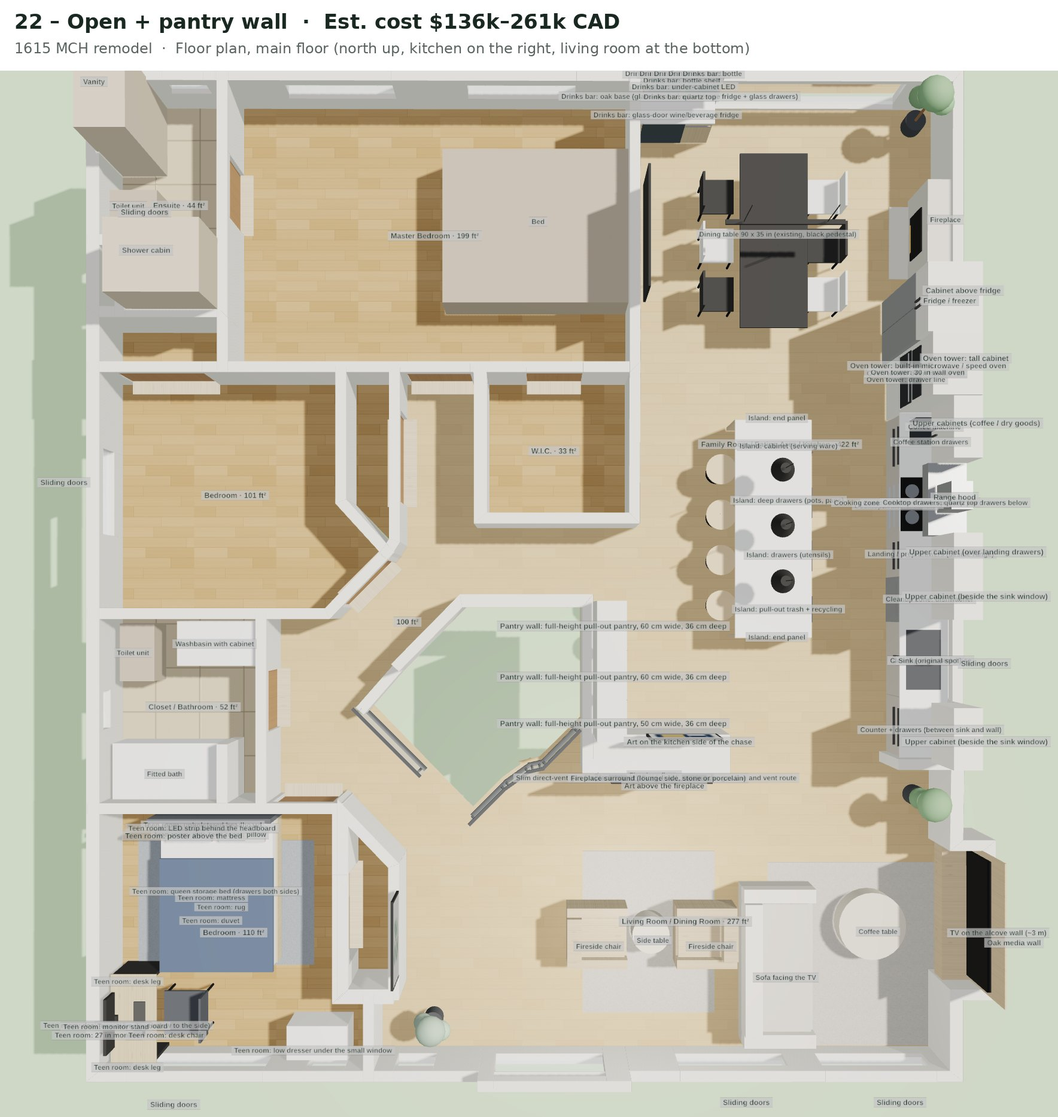
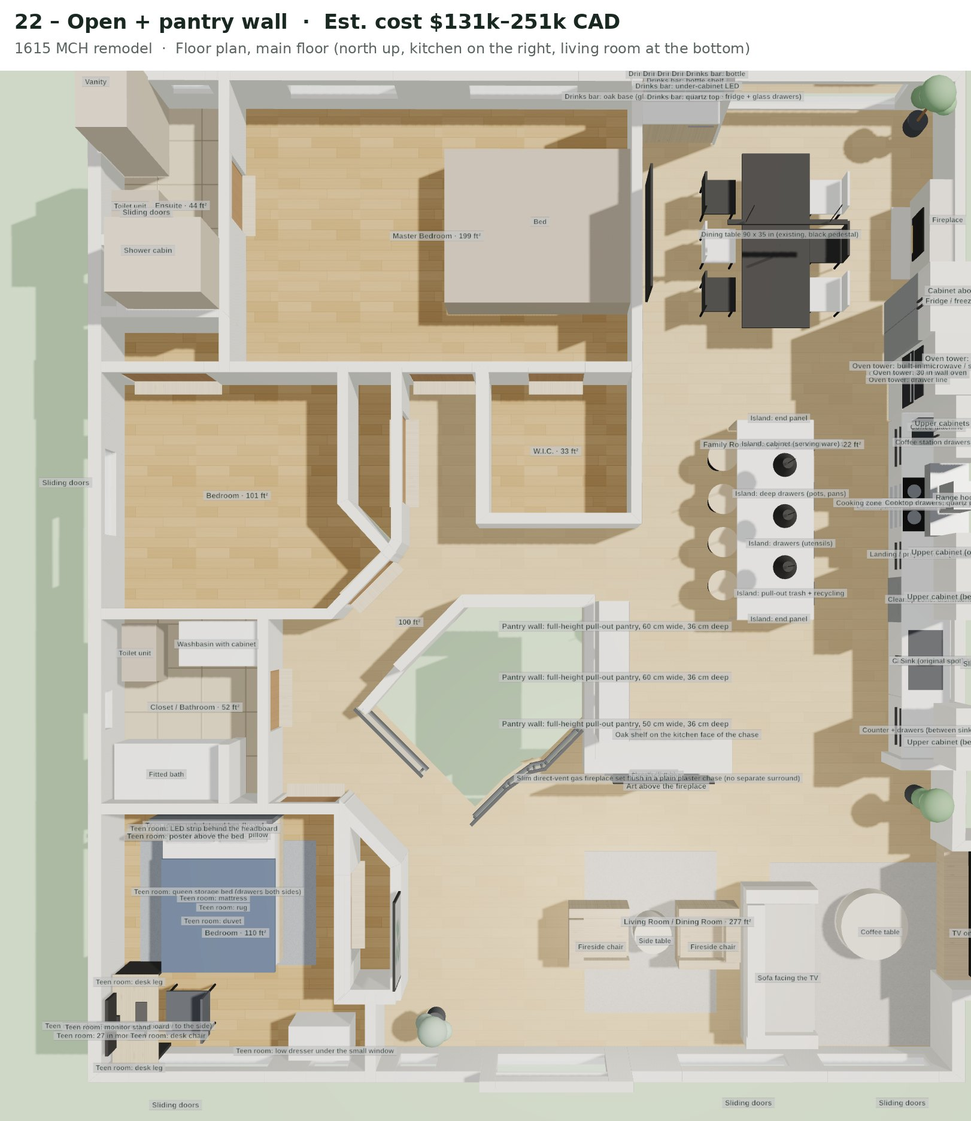
Concept 22 refined: seamless pantry wall, 2.6 m island, built-in drinks bar, plain plaster fireplace, warm off-white + oak, layered lighting
Claude-Session: https://claude.ai/code/session_01FZodxpykm6DXmAniNRJHHf

diff --git a/js/data/concepts/v26.js b/js/data/concepts/v26.js
@@ -35,12 +35,12 @@ DATA["v26"] = {
     ["level-e7276441-09e6-40e5-b0fe-e49e557499fc", "box", 1045, -60, 80, 55, 95, 0, 0.0, 3355443, "BBQ"],
     ["level-e7276441-09e6-40e5-b0fe-e49e557499fc", "sofa", 862, -310, 190, 80, 75, 0, 0.0, 7306630, "Deck lounge"],
     ["level-e7276441-09e6-40e5-b0fe-e49e557499fc", "plant", 440, 1255, 40, 40, 95, 0, 0.0, 8362626, ""],
-    ["level-e7276441-09e6-40e5-b0fe-e49e557499fc", "box", 1087, 485, 80, 60, 86, 0, 1.5707963267948966, 11905949, "Coffee station drawers"],
+    ["level-e7276441-09e6-40e5-b0fe-e49e557499fc", "box", 1087, 485, 80, 60, 86, 0, 1.5707963267948966, 15394524, "Coffee station drawers"],
     ["level-e7276441-09e6-40e5-b0fe-e49e557499fc", "box", 1085.5, 485, 84, 63, 3, 86, 1.5707963267948966, 16250869, ""],
     ["level-e7276441-09e6-40e5-b0fe-e49e557499fc", "box", 1116.5, 579.0, 268, 1, 70, 90, 1.5707963267948966, 16250869, ""],
     ["level-e7276441-09e6-40e5-b0fe-e49e557499fc", "box", 1086, 687, 60, 60, 84, 0, 1.5707963267948966, 12173252, "Cleanup zone: dishwasher"],
     ["level-e7276441-09e6-40e5-b0fe-e49e557499fc", "box", 1085.5, 688, 64, 63, 3, 86, 1.5707963267948966, 16250869, ""],
-    ["level-e7276441-09e6-40e5-b0fe-e49e557499fc", "box", 1087, 766, 98, 60, 86, 0, 1.5707963267948966, 11905949, "Cleanup zone: sink base"],
+    ["level-e7276441-09e6-40e5-b0fe-e49e557499fc", "box", 1087, 766, 98, 60, 86, 0, 1.5707963267948966, 15394524, "Cleanup zone: sink base"],
     ["level-e7276441-09e6-40e5-b0fe-e49e557499fc", "box", 1085.5, 766, 106, 63, 3, 86, 1.5707963267948966, 16250869, ""],
     ["level-e7276441-09e6-40e5-b0fe-e49e557499fc", "box", 1085, 766, 78, 45, 1, 89, 1.5707963267948966, 2763824, "Sink (original spot)"],
     ["level-e7276441-09e6-40e5-b0fe-e49e557499fc", "round", 1106, 766, 4, 4, 28, 89, 0, 1710618, ""],
@@ -48,28 +48,28 @@ DATA["v26"] = {
     ["level-e7276441-09e6-40e5-b0fe-e49e557499fc", "box", 1084, 324, 84, 66, 185, 0, 1.5707963267948966, 12173252, "Fridge / freezer"],
     ["level-e7276441-09e6-40e5-b0fe-e49e557499fc", "box", 1084, 324, 1, 66, 185, 0, 1.5707963267948966, 8225672, ""],
     ["level-e7276441-09e6-40e5-b0fe-e49e557499fc", "box", 1084, 324, 84, 66, 57.8, 185, 1.5707963267948966, 15986404, "Cabinet above fridge"],
-    ["level-e7276441-09e6-40e5-b0fe-e49e557499fc", "box", 904, 700, 69.0, 70, 86, 0, 1.5707963267948966, 13215352, "Island: pull-out trash + recycling"],
-    ["level-e7276441-09e6-40e5-b0fe-e49e557499fc", "box", 904, 560.0, 69.0, 70, 86, 0, 1.5707963267948966, 13215352, "Island: deep drawers (pots, pans)"],
-    ["level-e7276441-09e6-40e5-b0fe-e49e557499fc", "box", 904, 630.0, 69.0, 70, 86, 0, 1.5707963267948966, 13215352, "Island: drawers (utensils)"],
-    ["level-e7276441-09e6-40e5-b0fe-e49e557499fc", "box", 904, 490, 69.0, 70, 86, 0, 1.5707963267948966, 13215352, "Island: cabinet (serving ware)"],
-    ["level-e7276441-09e6-40e5-b0fe-e49e557499fc", "box", 889, 595.0, 284, 100, 4, 86, 1.5707963267948966, 16250869, ""],
-    ["level-e7276441-09e6-40e5-b0fe-e49e557499fc", "box", 889, 454, 4, 100, 86, 0, 1.5707963267948966, 13215352, "Island: end panel"],
-    ["level-e7276441-09e6-40e5-b0fe-e49e557499fc", "box", 889, 736, 4, 100, 86, 0, 1.5707963267948966, 13215352, "Island: end panel"],
-    ["level-e7276441-09e6-40e5-b0fe-e49e557499fc", "stool", 824, 515, 40, 40, 65, 0, 4.71238898038469, 13806972, ""],
-    ["level-e7276441-09e6-40e5-b0fe-e49e557499fc", "stool", 824, 575, 40, 40, 65, 0, 4.71238898038469, 13806972, ""],
-    ["level-e7276441-09e6-40e5-b0fe-e49e557499fc", "stool", 824, 635, 40, 40, 65, 0, 4.71238898038469, 13806972, ""],
-    ["level-e7276441-09e6-40e5-b0fe-e49e557499fc", "stool", 824, 695, 40, 40, 65, 0, 4.71238898038469, 13806972, ""],
-    ["level-e7276441-09e6-40e5-b0fe-e49e557499fc", "pendant", 889, 525, 30, 30, 24, 165, 0.0, 1842204, ""],
-    ["level-e7276441-09e6-40e5-b0fe-e49e557499fc", "pendant", 889, 595, 30, 30, 24, 165, 0.0, 1842204, ""],
-    ["level-e7276441-09e6-40e5-b0fe-e49e557499fc", "pendant", 889, 665, 30, 30, 24, 165, 0.0, 1842204, ""],
+    ["level-e7276441-09e6-40e5-b0fe-e49e557499fc", "box", 904, 679.1, 63.2, 70, 86, 0, 1.5707963267948966, 13215352, "Island: pull-out trash + recycling"],
+    ["level-e7276441-09e6-40e5-b0fe-e49e557499fc", "box", 904, 551.0, 63.2, 70, 86, 0, 1.5707963267948966, 13215352, "Island: deep drawers (pots, pans)"],
+    ["level-e7276441-09e6-40e5-b0fe-e49e557499fc", "box", 904, 615.0, 63.2, 70, 86, 0, 1.5707963267948966, 13215352, "Island: drawers (utensils)"],
+    ["level-e7276441-09e6-40e5-b0fe-e49e557499fc", "box", 904, 486.9, 63.2, 70, 86, 0, 1.5707963267948966, 13215352, "Island: cabinet (serving ware)"],
+    ["level-e7276441-09e6-40e5-b0fe-e49e557499fc", "box", 889, 583.0, 260, 100, 4, 86, 1.5707963267948966, 16250869, ""],
+    ["level-e7276441-09e6-40e5-b0fe-e49e557499fc", "box", 889, 453.9, 4, 100, 86, 0, 1.5707963267948966, 13215352, "Island: end panel"],
+    ["level-e7276441-09e6-40e5-b0fe-e49e557499fc", "box", 889, 712.1, 4, 100, 86, 0, 1.5707963267948966, 13215352, "Island: end panel"],
+    ["level-e7276441-09e6-40e5-b0fe-e49e557499fc", "stool", 824, 497, 40, 40, 65, 0, 4.71238898038469, 13806972, ""],
+    ["level-e7276441-09e6-40e5-b0fe-e49e557499fc", "stool", 824, 554, 40, 40, 65, 0, 4.71238898038469, 13806972, ""],
+    ["level-e7276441-09e6-40e5-b0fe-e49e557499fc", "stool", 824, 611, 40, 40, 65, 0, 4.71238898038469, 13806972, ""],
+    ["level-e7276441-09e6-40e5-b0fe-e49e557499fc", "stool", 824, 668, 40, 40, 65, 0, 4.71238898038469, 13806972, ""],
+    ["level-e7276441-09e6-40e5-b0fe-e49e557499fc", "pendant", 889, 518.9, 30, 30, 24, 165, 0.0, 1842204, ""],
+    ["level-e7276441-09e6-40e5-b0fe-e49e557499fc", "pendant", 889, 583.0, 30, 30, 24, 165, 0.0, 1842204, ""],
+    ["level-e7276441-09e6-40e5-b0fe-e49e557499fc", "pendant", 889, 647.1, 30, 30, 24, 165, 0.0, 1842204, ""],
     ["level-e7276441-09e6-40e5-b0fe-e49e557499fc", "box", 1082, 470, 32, 30, 34, 89, 1.5707963267948966, 2040614, "Coffee machine"],
     ["level-e7276441-09e6-40e5-b0fe-e49e557499fc", "console", 1136, 1101.5, 179, 38, 38, 22, 1.5707963267948966, 13215352, ""],
     ["level-e7276441-09e6-40e5-b0fe-e49e557499fc", "box", 1099.5, 480.5, 75, 35, 102.8, 140, 1.5707963267948966, 15986404, "Upper cabinets (coffee / dry goods)"],
     ["level-e7276441-09e6-40e5-b0fe-e49e557499fc", "box", 1055.5, 687, 44, 2.5, 2.5, 66, 1.5707963267948966, 6710886, ""],
     ["level-e7276441-09e6-40e5-b0fe-e49e557499fc", "box", 1055.6, 687, 50, 1, 6, 76, 1.5707963267948966, 12173252, ""],
-    ["level-e7276441-09e6-40e5-b0fe-e49e557499fc", "box", 1087, 629, 56, 60, 86, 0, 1.5707963267948966, 11905949, "Landing / prep drawers (beside range)"],
+    ["level-e7276441-09e6-40e5-b0fe-e49e557499fc", "box", 1087, 629, 56, 60, 86, 0, 1.5707963267948966, 15394524, "Landing / prep drawers (beside range)"],
     ["level-e7276441-09e6-40e5-b0fe-e49e557499fc", "box", 1085.5, 629, 60, 63, 3, 86, 1.5707963267948966, 16250869, ""],
-    ["level-e7276441-09e6-40e5-b0fe-e49e557499fc", "box", 1087, 855, 78, 60, 86, 0, 1.5707963267948966, 11905949, "Counter + drawers (between sink and wall)"],
+    ["level-e7276441-09e6-40e5-b0fe-e49e557499fc", "box", 1087, 855, 78, 60, 86, 0, 1.5707963267948966, 15394524, "Counter + drawers (between sink and wall)"],
     ["level-e7276441-09e6-40e5-b0fe-e49e557499fc", "box", 1085.5, 855, 82, 63, 3, 86, 1.5707963267948966, 16250869, ""],
     ["level-e7276441-09e6-40e5-b0fe-e49e557499fc", "box", 1055.5, 485, 50, 3, 1.8, 76, 1.5707963267948966, 2763306, ""],
     ["level-e7276441-09e6-40e5-b0fe-e49e557499fc", "box", 1055.5, 485, 50, 3, 1.8, 50, 1.5707963267948966, 2763306, ""],
@@ -83,12 +83,12 @@ DATA["v26"] = {
     ["level-e7276441-09e6-40e5-b0fe-e49e557499fc", "box", 1080.5, 482, 1.8, 3, 26, 144, 1.5707963267948966, 2763306, ""],
     ["level-e7276441-09e6-40e5-b0fe-e49e557499fc", "box", 1049.5, 320, 1.8, 3, 26, 189, 1.5707963267948966, 2763306, ""],
     ["level-e7276441-09e6-40e5-b0fe-e49e557499fc", "box", 1049.5, 328, 1.8, 3, 26, 189, 1.5707963267948966, 2763306, ""],
-    ["level-e7276441-09e6-40e5-b0fe-e49e557499fc", "box", 940.5, 700, 34, 3, 1.8, 78, 1.5707963267948966, 2763306, ""],
-    ["level-e7276441-09e6-40e5-b0fe-e49e557499fc", "box", 940.5, 560, 40, 3, 1.8, 76, 1.5707963267948966, 2763306, ""],
-    ["level-e7276441-09e6-40e5-b0fe-e49e557499fc", "box", 940.5, 560, 40, 3, 1.8, 45, 1.5707963267948966, 2763306, ""],
-    ["level-e7276441-09e6-40e5-b0fe-e49e557499fc", "box", 940.5, 630, 40, 3, 1.8, 76, 1.5707963267948966, 2763306, ""],
-    ["level-e7276441-09e6-40e5-b0fe-e49e557499fc", "box", 940.5, 486, 1.8, 3, 30, 52, 1.5707963267948966, 2763306, ""],
-    ["level-e7276441-09e6-40e5-b0fe-e49e557499fc", "box", 940.5, 494, 1.8, 3, 30, 52, 1.5707963267948966, 2763306, ""],
+    ["level-e7276441-09e6-40e5-b0fe-e49e557499fc", "box", 940.5, 679.1, 31.1, 3, 1.8, 78, 1.5707963267948966, 2763306, ""],
+    ["level-e7276441-09e6-40e5-b0fe-e49e557499fc", "box", 940.5, 551.0, 36.6, 3, 1.8, 76, 1.5707963267948966, 2763306, ""],
+    ["level-e7276441-09e6-40e5-b0fe-e49e557499fc", "box", 940.5, 551.0, 36.6, 3, 1.8, 45, 1.5707963267948966, 2763306, ""],
+    ["level-e7276441-09e6-40e5-b0fe-e49e557499fc", "box", 940.5, 615.0, 36.6, 3, 1.8, 76, 1.5707963267948966, 2763306, ""],
+    ["level-e7276441-09e6-40e5-b0fe-e49e557499fc", "box", 940.5, 483.2, 1.8, 3, 30, 52, 1.5707963267948966, 2763306, ""],
+    ["level-e7276441-09e6-40e5-b0fe-e49e557499fc", "box", 940.5, 490.5, 1.8, 3, 30, 52, 1.5707963267948966, 2763306, ""],
     ["level-e7276441-09e6-40e5-b0fe-e49e557499fc", "plant", 1092, 952, 44, 44, 140, 0, 0.0, 6261338, ""],
     ["level-e7276441-09e6-40e5-b0fe-e49e557499fc", "plant", 735, -330, 46, 46, 150, 0, 0.0, 6261338, ""],
     ["level-e7276441-09e6-40e5-b0fe-e49e557499fc", "plant", 1075, -330, 44, 44, 135, 0, 0.0, 6261338, ""],
@@ -132,18 +132,16 @@ DATA["v26"] = {
     ["level-e7276441-09e6-40e5-b0fe-e49e557499fc", "led", 1086, 480.5, 71, 4, 0.8, 138.8, 1.5707963267948966, 16777215, ""],
     ["level-e7276441-09e6-40e5-b0fe-e49e557499fc", "led", 1086, 632.5, 45, 4, 0.8, 138.8, 1.5707963267948966, 16777215, ""],
     ["level-e7276441-09e6-40e5-b0fe-e49e557499fc", "tv", 1153, 1101.5, 165, 8, 93, 60, 1.5708, 1118481, "TV on the alcove wall (~3 m)"],
-    ["level-e7276441-09e6-40e5-b0fe-e49e557499fc", "box", 734.55, 914.5, 150, 5, 110, 0, 0, 4934477, "Fireplace surround (lounge side, stone or porcelain)"],
-    ["level-e7276441-09e6-40e5-b0fe-e49e557499fc", "box", 734.55, 917.8, 112, 2, 46, 32, 0, 1315860, "Slim direct-vent gas fireplace (about 38 cm deep), reusing the gas line and vent route"],
+    ["level-e7276441-09e6-40e5-b0fe-e49e557499fc", "box", 734.55, 917.8, 112, 2, 46, 32, 0, 1315860, "Slim direct-vent gas fireplace set flush in a plain plaster chase (no separate surround)"],
     ["level-e7276441-09e6-40e5-b0fe-e49e557499fc", "led", 734.55, 918.5, 96, 1, 6, 36, 0, 0, "Fireplace flame"],
-    ["level-e7276441-09e6-40e5-b0fe-e49e557499fc", "box", 734.55, 925, 150, 20, 2, 0, 0, 3815996, "Hearth (flush)"],
+    ["level-e7276441-09e6-40e5-b0fe-e49e557499fc", "box", 734.55, 921, 130, 12, 2, 0, 0, 3815996, "Hearth (flush)"],
     ["level-e7276441-09e6-40e5-b0fe-e49e557499fc", "art", 734.55, 913.5, 125, 3, 72, 128, 0, 7, "Art above the fireplace"],
-    ["level-e7276441-09e6-40e5-b0fe-e49e557499fc", "art", 765, 860.5, 90, 3, 70, 130, 3.141592653589793, 3, "Art on the kitchen side of the chase"],
     ["level-e7276441-09e6-40e5-b0fe-e49e557499fc", "box", 1087, 404, 76, 60, 242.8, 0, 1.5707963267948966, 15394524, "Oven tower: tall cabinet"],
     ["level-e7276441-09e6-40e5-b0fe-e49e557499fc", "box", 1056.5, 404, 66, 1.5, 58, 82, 1.5707963267948966, 1908513, "Oven tower: 30 in wall oven"],
     ["level-e7276441-09e6-40e5-b0fe-e49e557499fc", "box", 1056.0, 404, 62, 1.5, 4, 128, 1.5707963267948966, 11120306, "Oven tower: oven handle rail"],
     ["level-e7276441-09e6-40e5-b0fe-e49e557499fc", "box", 1056.5, 404, 62, 1.5, 42, 148, 1.5707963267948966, 1908513, "Oven tower: built-in microwave / speed oven"],
     ["level-e7276441-09e6-40e5-b0fe-e49e557499fc", "box", 1056.0, 404, 70, 1.5, 1, 81, 1.5707963267948966, 10132122, "Oven tower: drawer line"],
-    ["level-e7276441-09e6-40e5-b0fe-e49e557499fc", "box", 1087, 563, 76, 60, 86, 0, 1.5707963267948966, 11905949, "Cooking zone: induction cooktop, deep pot drawers below"],
+    ["level-e7276441-09e6-40e5-b0fe-e49e557499fc", "box", 1087, 563, 76, 60, 86, 0, 1.5707963267948966, 15394524, "Cooking zone: induction cooktop, deep pot drawers below"],
     ["level-e7276441-09e6-40e5-b0fe-e49e557499fc", "box", 1084, 563, 70, 58, 1, 89.2, 1.5707963267948966, 1118481, ""],
     ["level-e7276441-09e6-40e5-b0fe-e49e557499fc", "round", 1070, 546, 18, 18, 0.6, 89.8, 0, 5593696, ""],
     ["level-e7276441-09e6-40e5-b0fe-e49e557499fc", "round", 1098, 546, 18, 18, 0.6, 89.8, 0, 5593696, ""],
@@ -171,29 +169,32 @@ DATA["v26"] = {
     ["level-e7276441-09e6-40e5-b0fe-e49e557499fc", "box", 290, 1272, 80, 45, 70, 0, 0, 15921646, "Teen room: low dresser under the small window"],
     ["level-e7276441-09e6-40e5-b0fe-e49e557499fc", "art", 156, 972.5, 90, 3, 60, 150, 0, 7, "Teen room: poster above the bed"],
     ["level-e7276441-09e6-40e5-b0fe-e49e557499fc", "box", 671, 720.0, 60, 36, 242.8, 0, 4.71238898038469, 15986404, "Pantry wall: full-height pull-out pantry, 60 cm wide, 36 cm deep"],
-    ["level-e7276441-09e6-40e5-b0fe-e49e557499fc", "box", 690.5, 696.0, 1.8, 3, 70, 85, 4.71238898038469, 12173252, ""],
     ["level-e7276441-09e6-40e5-b0fe-e49e557499fc", "box", 671, 780.0, 60, 36, 242.8, 0, 4.71238898038469, 15986404, "Pantry wall: full-height pull-out pantry, 60 cm wide, 36 cm deep"],
-    ["level-e7276441-09e6-40e5-b0fe-e49e557499fc", "box", 690.5, 756.0, 1.8, 3, 70, 85, 4.71238898038469, 12173252, ""],
     ["level-e7276441-09e6-40e5-b0fe-e49e557499fc", "box", 671, 835.0, 50, 36, 242.8, 0, 4.71238898038469, 15986404, "Pantry wall: full-height pull-out pantry, 50 cm wide, 36 cm deep"],
-    ["level-e7276441-09e6-40e5-b0fe-e49e557499fc", "box", 690.5, 816.0, 1.8, 3, 70, 85, 4.71238898038469, 12173252, ""],
     ["level-e7276441-09e6-40e5-b0fe-e49e557499fc", "box", 689.3, 750, 0.8, 0.6, 238, 2, 4.71238898038469, 10262156, ""],
     ["level-e7276441-09e6-40e5-b0fe-e49e557499fc", "box", 689.3, 810, 0.8, 0.6, 238, 2, 4.71238898038469, 10262156, ""],
-    ["level-e7276441-09e6-40e5-b0fe-e49e557499fc", "pot", 700, 775, 11, 11, 0.8, 242.4, 0, 16774880, ""],
-    ["level-e7276441-09e6-40e5-b0fe-e49e557499fc", "box", 764, 40.5, 94, 45, 86, 0, 0, 13150330, "Drinks bar: oak base (glass-door wine/beverage fridge + glass drawers)"],
-    ["level-e7276441-09e6-40e5-b0fe-e49e557499fc", "box", 747, 63.6, 56, 1.5, 80, 4, 0, 2830646, "Drinks bar: glass-door wine/beverage fridge"],
-    ["level-e7276441-09e6-40e5-b0fe-e49e557499fc", "box", 792, 63.6, 34, 1.5, 1.8, 70, 0, 12173252, ""],
-    ["level-e7276441-09e6-40e5-b0fe-e49e557499fc", "box", 764, 42, 98, 48, 3, 86, 0, 16250869, "Drinks bar: quartz top"],
-    ["level-e7276441-09e6-40e5-b0fe-e49e557499fc", "box", 764, 33, 94, 30, 75, 140, 0, 15986404, "Drinks bar: glass-front upper (glasses), LED lit"],
-    ["level-e7276441-09e6-40e5-b0fe-e49e557499fc", "box", 741, 48.4, 40, 0.8, 67, 144, 0, 12374228, "Drinks bar: glass doors"],
-    ["level-e7276441-09e6-40e5-b0fe-e49e557499fc", "box", 787, 48.4, 40, 0.8, 67, 144, 0, 12374228, ""],
-    ["level-e7276441-09e6-40e5-b0fe-e49e557499fc", "box", 764, 33, 90, 26, 1.2, 177, 0, 16184042, ""],
-    ["level-e7276441-09e6-40e5-b0fe-e49e557499fc", "led", 764, 47, 90, 2, 1.5, 138, 0, 0, "Drinks bar: under-cabinet LED"],
-    ["level-e7276441-09e6-40e5-b0fe-e49e557499fc", "box", 764, 30, 94, 24, 2, 112, 0, 13150330, "Drinks bar: bottle shelf"],
-    ["level-e7276441-09e6-40e5-b0fe-e49e557499fc", "box", 728, 30, 7, 7, 24, 114, 0, 5978666, "Drinks bar: bottle"],
-    ["level-e7276441-09e6-40e5-b0fe-e49e557499fc", "box", 746, 30, 7, 7, 24, 114, 0, 5978666, "Drinks bar: bottle"],
-    ["level-e7276441-09e6-40e5-b0fe-e49e557499fc", "box", 764, 30, 7, 7, 24, 114, 0, 5978666, "Drinks bar: bottle"],
-    ["level-e7276441-09e6-40e5-b0fe-e49e557499fc", "box", 782, 30, 7, 7, 24, 114, 0, 5978666, "Drinks bar: bottle"],
-    ["level-e7276441-09e6-40e5-b0fe-e49e557499fc", "box", 800, 30, 7, 7, 24, 114, 0, 5978666, "Drinks bar: bottle"]
+    ["level-e7276441-09e6-40e5-b0fe-e49e557499fc", "box", 765.7, 40.5, 101, 45, 86, 0, 0, 13150330, "Drinks bar: oak base (glass-door wine/beverage fridge + glass drawers)"],
+    ["level-e7276441-09e6-40e5-b0fe-e49e557499fc", "box", 793.7, 63.6, 34, 1.5, 1.8, 70, 0, 12173252, ""],
+    ["level-e7276441-09e6-40e5-b0fe-e49e557499fc", "box", 765.7, 42, 105, 48, 3, 86, 0, 16250869, "Drinks bar: quartz top"],
+    ["level-e7276441-09e6-40e5-b0fe-e49e557499fc", "led", 765.7, 47, 97, 2, 1.5, 141, 0, 0, "Drinks bar: under-cabinet LED"],
+    ["level-e7276441-09e6-40e5-b0fe-e49e557499fc", "box", 765.7, 30, 101, 24, 2, 112, 0, 13150330, "Drinks bar: bottle shelf"],
+    ["level-e7276441-09e6-40e5-b0fe-e49e557499fc", "box", 729.7, 30, 7, 7, 24, 114, 0, 5978666, "Drinks bar: bottle"],
+    ["level-e7276441-09e6-40e5-b0fe-e49e557499fc", "box", 747.7, 30, 7, 7, 24, 114, 0, 5978666, "Drinks bar: bottle"],
+    ["level-e7276441-09e6-40e5-b0fe-e49e557499fc", "box", 765.7, 30, 7, 7, 24, 114, 0, 5978666, "Drinks bar: bottle"],
+    ["level-e7276441-09e6-40e5-b0fe-e49e557499fc", "box", 783.7, 30, 7, 7, 24, 114, 0, 5978666, "Drinks bar: bottle"],
+    ["level-e7276441-09e6-40e5-b0fe-e49e557499fc", "box", 801.7, 30, 7, 7, 24, 114, 0, 5978666, "Drinks bar: bottle"],
+    ["level-e7276441-09e6-40e5-b0fe-e49e557499fc", "box", 689.6, 720.0, 58, 0.8, 2.5, 236, 4.71238898038469, 7301730, ""],
+    ["level-e7276441-09e6-40e5-b0fe-e49e557499fc", "box", 689.6, 780.0, 58, 0.8, 2.5, 236, 4.71238898038469, 7301730, ""],
+    ["level-e7276441-09e6-40e5-b0fe-e49e557499fc", "box", 689.6, 835.0, 48, 0.8, 2.5, 236, 4.71238898038469, 7301730, ""],
+    ["level-e7276441-09e6-40e5-b0fe-e49e557499fc", "pot", 712, 725, 11, 11, 0.8, 242.4, 0, 16774880, ""],
+    ["level-e7276441-09e6-40e5-b0fe-e49e557499fc", "pot", 712, 825, 11, 11, 0.8, 242.4, 0, 16774880, ""],
+    ["level-e7276441-09e6-40e5-b0fe-e49e557499fc", "box", 765, 856, 110, 12, 4, 140, 3.141592653589793, 13150330, "Oak shelf on the kitchen face of the chase"],
+    ["level-e7276441-09e6-40e5-b0fe-e49e557499fc", "box", 818, 42, 3, 48, 242.8, 0, 0, 15394524, "Drinks bar: full-height side panel (patio side)"],
+    ["level-e7276441-09e6-40e5-b0fe-e49e557499fc", "box", 764.2, 19, 100, 2, 54, 89, 0, 13150330, "Drinks bar: oak back panel"],
+    ["level-e7276441-09e6-40e5-b0fe-e49e557499fc", "box", 764.2, 34, 100, 32, 99.8, 143, 0, 15394524, "Drinks bar: glass-front cabinet to the ceiling (glasses), LED lit"],
+    ["level-e7276441-09e6-40e5-b0fe-e49e557499fc", "box", 739.45, 50.4, 47.5, 0.8, 92, 147, 0, 12374228, "Drinks bar: glass doors"],
+    ["level-e7276441-09e6-40e5-b0fe-e49e557499fc", "box", 788.95, 50.4, 47.5, 0.8, 92, 147, 0, 12374228, ""],
+    ["level-e7276441-09e6-40e5-b0fe-e49e557499fc", "box", 764.2, 34, 96, 28, 1.2, 190, 0, 16184042, ""]
   ],
   "ghost": [
     ["level-e7276441-09e6-40e5-b0fe-e49e557499fc", [855.5, 895.7, 789.3, 960.5, 799.1, 970.5, 865.3, 905.7], 0, 243.84],

diff --git a/js/data/versions.js b/js/data/versions.js
@@ -1136,8 +1136,8 @@ const VERS = [
     "sub": "Concept 15 with 20 and 21 ideas",
     "chip": "22 · Open + pantry wall",
     "kind": "Concept 22 · Latest",
-    "headline": "Concept 15 refined: the open kitchen and two living-room seating areas kept, with a full-height pantry wall, an oven tower beside the fridge and an integrated drinks bar.",
-    "desc": "Same plan as concept 15: the kitchen-lounge wall is opened up except a short chase with a slim gas fireplace facing the lounge, the stair stays as built (the top-winder idea is left as an option), and the lounge has two seating areas (sofa facing the TV nook, two fireside chairs facing the fireplace). Changes: the short dry-pantry run on the stair-side wall becomes a full-height pantry wall (three pull-out units, 60 + 60 + 50 cm wide, 36 cm deep, floor to ceiling), which keeps about 1.5 m between it and the island edge. On the kitchen wall run the full-height pantry is replaced by an oven tower (30 in wall oven with a built-in microwave above): from the dining end you see the fridge with its cabinet above, then the oven tower, both full height, then the counter run with the coffee station beside the oven (landing space for hot dishes) and an induction cooktop over pot drawers under the hood. The beverage-fridge corner by the patio slider becomes a proper drinks bar in the same footprint: white-oak base matching the island, glass-door wine/beverage fridge, quartz top, LED-lit glass-front upper and a bottle shelf. The dining table moves 15 cm south so you can stand at the bar and pass the patio slider.",
+    "headline": "Concept 15 refined: the open kitchen and two living-room seating areas kept, with a seamless full-height pantry wall, an oven tower beside the fridge, a built-in drinks bar and a simpler fireplace.",
+    "desc": "Same plan as concept 15: the kitchen-lounge wall is opened up except a short chase with a slim gas fireplace facing the lounge, the stair stays as built (the top-winder idea is left as an option), and the lounge keeps two seating areas: the sofa facing the TV nook, and two fireside chairs facing each other at the fireplace. Kitchen: warm off-white cabinetry throughout with white-oak accents (island and bar). On the wall run, from the dining end: fridge with a cabinet above, a full-height oven tower (30 in wall oven, built-in microwave above), the coffee counter beside it as landing space, an induction cooktop over pot drawers under the hood, prep drawers, dishwasher and sink. The short dry-pantry run becomes a seamless full-height pantry wall: three pull-out units (60 + 60 + 50 cm, 36 cm deep) with integrated finger pulls and no visible hardware, lit by two pot lights. The island is 2.6 m with four stools at 57 cm spacing, all clear of the pantry wall; 116 cm work aisle, about 1.5 m between the island and the pantry wall. Fireplace: no separate stone panel; the chase is plain plaster with the fireplace set flush, a slim dark hearth and one piece of art, and a single oak shelf on its kitchen face. Drinks bar: a built-in niche between the dining wall and the patio slider, framed in off-white to the ceiling, with a white-oak base and back panel, glass-door wine/beverage fridge, quartz top, bottle shelf and an LED-lit glass cabinet to the ceiling. The dining table moves 15 cm south so you can stand at the bar and pass the patio slider.",
     "tags": [
       "Concept 15 layout",
       "Pantry wall",
@@ -1170,29 +1170,29 @@ const VERS = [
         "Kitchen",
         [
           "Wall run on the east wall (north to south): counter-depth fridge with cabinet above, oven tower 76 cm (30 in wall oven, built-in microwave above, drawer below), coffee station (landing beside the oven) with uppers, 76 cm induction cooktop over three pot drawers under the chimney hood, prep drawers, dishwasher, sink in the original spot, drawers to the corner.",
-          "Pantry wall on the stair-side wall: three full-height pull-out pantry units (60, 60 and 50 cm wide, 36 cm deep), floor to ceiling, with a pot light in front.",
-          "Island 284 x 100 cm (white oak), four stools, prep sink, pull-out trash; about 115 cm work aisle to the wall run, about 150 cm from the island edge to the pantry wall.",
-          "Drinks bar in the dining corner between the dining wall and the patio slider (94 cm): white-oak base with a glass-door wine/beverage fridge, quartz top, LED-lit glass-front upper, bottle shelf.",
-          "Quartz counters and backsplash; greige lowers, warm-white uppers and tall units, black hardware."
+          "Pantry wall on the stair-side wall: three full-height pull-out pantry units (60, 60 and 50 cm wide, 36 cm deep), floor to ceiling, integrated finger pulls, two pot lights in front.",
+          "Island 260 x 100 cm (white oak), four stools at 57 cm spacing, pull-out trash, receptacles; 116 cm work aisle to the wall run, about 150 cm from the island edge to the pantry wall.",
+          "Drinks bar built into the dining corner between the dining wall and the patio slider (about 1 m): off-white frame and side panel to the ceiling, white-oak base and back panel, glass-door wine/beverage fridge, quartz top, bottle shelf, LED-lit glass cabinet to the ceiling.",
+          "Quartz counters and backsplash; warm off-white cabinetry throughout with white-oak accents (island, bar), black hardware on the wall run."
         ]
       ],
       [
         "Plumbing",
         [
-          "Sink stays on the existing drain and supply; island prep sink (new drain and vent through the floor); dishwasher; fridge water line."
+          "Sink stays on the existing drain and supply; dishwasher; fridge water line."
         ]
       ],
       [
         "Gas and fireplace",
         [
-          "Slim direct-vent gas fireplace (about 38 cm deep) in the new chase facing the lounge, stone or porcelain surround, flush hearth; extend the existing gas line and vent."
+          "Slim direct-vent gas fireplace (about 38 cm deep) in the new chase facing the lounge, set flush in a plain plaster chase (no separate surround), slim dark hearth, oak shelf on the kitchen face; extend the existing gas line and vent."
         ]
       ],
       [
         "Electrical and lighting",
         [
           "40 A 240 V circuit for the cooktop, separate 240 V circuit for the wall oven, dedicated circuits for the microwave, dishwasher, fridge, beverage fridge and hood; island receptacles through the floor.",
-          "Pot lights, island pendants, linear pendant over the dining table, under-cabinet LED, bar LED, stair step lights.",
+          "Layered lighting: pot lights (including two over the pantry wall), three island pendants, linear pendant over the dining table, under-cabinet LED, bar LED, stair step lights.",
           "Teen room: desk-height receptacle with USB-C and a network drop; switched receptacle for the headboard LED."
         ]
       ],

diff --git a/sheets/index.html b/sheets/index.html
@@ -88,8 +88,8 @@ h1{font-size:26px}h2{margin:28px 0 4px;font-size:21px}.m,.t{color:#5b6660;margin
 <p class="t">Original walls · Slim fireplace · Walk-in pantry · Island cooktop · 1.8 m opening</p>
 <div class="g"><a href="concept-21-plan.jpg"><img src="concept-21-plan.jpg" alt="21 – Original + pantry: floor plan of the main floor, north up" loading="lazy"></a>
 <a href="concept-21-view.jpg"><img src="concept-21-view.jpg" alt="21 – Original + pantry: 3D cutaway looking from the kitchen to the living room" loading="lazy"></a></div></section><section id="concept-22"><h2>22 – Open + pantry wall</h2>
-<p class="m">Est. cost $136k–261k CAD · Concept 22 · Latest · <a href="../#concept-22">open in 3D</a></p>
-<p><b>Concept 15 refined: the open kitchen and two living-room seating areas kept, with a full-height pantry wall, an oven tower beside the fridge and an integrated drinks bar.</b> Same plan as concept 15: the kitchen-lounge wall is opened up except a short chase with a slim gas fireplace facing the lounge, the stair stays as built (the top-winder idea is left as an option), and the lounge has two seating areas (sofa facing the TV nook, two fireside chairs facing the fireplace). Changes: the short dry-pantry run on the stair-side wall becomes a full-height pantry wall (three pull-out units, 60 + 60 + 50 cm wide, 36 cm deep, floor to ceiling), which keeps about 1.5 m between it and the island edge. On the kitchen wall run the full-height pantry is replaced by an oven tower (30 in wall oven with a built-in microwave above): from the dining end you see the fridge with its cabinet above, then the oven tower, both full height, then the counter run with the coffee station beside the oven (landing space for hot dishes) and an induction cooktop over pot drawers under the hood. The beverage-fridge corner by the patio slider becomes a proper drinks bar in the same footprint: white-oak base matching the island, glass-door wine/beverage fridge, quartz top, LED-lit glass-front upper and a bottle shelf. The dining table moves 15 cm south so you can stand at the bar and pass the patio slider.</p>
+<p class="m">Est. cost $131k–251k CAD · Concept 22 · Latest · <a href="../#concept-22">open in 3D</a></p>
+<p><b>Concept 15 refined: the open kitchen and two living-room seating areas kept, with a seamless full-height pantry wall, an oven tower beside the fridge, a built-in drinks bar and a simpler fireplace.</b> Same plan as concept 15: the kitchen-lounge wall is opened up except a short chase with a slim gas fireplace facing the lounge, the stair stays as built (the top-winder idea is left as an option), and the lounge keeps two seating areas: the sofa facing the TV nook, and two fireside chairs facing each other at the fireplace. Kitchen: warm off-white cabinetry throughout with white-oak accents (island and bar). On the wall run, from the dining end: fridge with a cabinet above, a full-height oven tower (30 in wall oven, built-in microwave above), the coffee counter beside it as landing space, an induction cooktop over pot drawers under the hood, prep drawers, dishwasher and sink. The short dry-pantry run becomes a seamless full-height pantry wall: three pull-out units (60 + 60 + 50 cm, 36 cm deep) with integrated finger pulls and no visible hardware, lit by two pot lights. The island is 2.6 m with four stools at 57 cm spacing, all clear of the pantry wall; 116 cm work aisle, about 1.5 m between the island and the pantry wall. Fireplace: no separate stone panel; the chase is plain plaster with the fireplace set flush, a slim dark hearth and one piece of art, and a single oak shelf on its kitchen face. Drinks bar: a built-in niche between the dining wall and the patio slider, framed in off-white to the ceiling, with a white-oak base and back panel, glass-door wine/beverage fridge, quartz top, bottle shelf and an LED-lit glass cabinet to the ceiling. The dining table moves 15 cm south so you can stand at the bar and pass the patio slider.</p>
 <p class="t">Concept 15 layout · Pantry wall · Oven tower · Drinks bar · Two seating areas</p>
 <div class="g"><a href="concept-22-plan.jpg"><img src="concept-22-plan.jpg" alt="22 – Open + pantry wall: floor plan of the main floor, north up" loading="lazy"></a>
 <a href="concept-22-view.jpg"><img src="concept-22-view.jpg" alt="22 – Open + pantry wall: 3D cutaway looking from the kitchen to the living room" loading="lazy"></a></div></section></body></html>

diff --git a/js/data/costs.js b/js/data/costs.js
@@ -1089,13 +1089,13 @@ const COSTS = {
   "notes": "Keeps the original walls and stair, so no beams or stair work."
  },
  "v26": {
-  "low": 136000.0,
-  "high": 261000.0,
+  "low": 131000.0,
+  "high": 251000.0,
   "items": [
    {
-    "item": "Kitchen: cabinets, quartz, white-oak island with prep sink, oven tower cabinet, pantry wall (3 full-height pull-outs), backsplash",
-    "low": 48000,
-    "high": 82000,
+    "item": "Kitchen: cabinets, quartz, white-oak island, oven tower cabinet, pantry wall (3 full-height pull-outs, integrated pulls), backsplash",
+    "low": 47000,
+    "high": 80000,
     "cat": "kitchen"
    },
    {
@@ -1105,9 +1105,9 @@ const COSTS = {
     "cat": "pro"
    },
    {
-    "item": "Drinks bar: white-oak base, wine/beverage fridge, quartz, lit glass-front upper, bottle shelf",
-    "low": 3000,
-    "high": 5500,
+    "item": "Drinks bar built-in: off-white frame to the ceiling, white-oak base and back panel, wine/beverage fridge, quartz, lit glass cabinet",
+    "low": 4000,
+    "high": 7500,
     "cat": "kitchen"
    },
    {
@@ -1117,16 +1117,16 @@ const COSTS = {
     "cat": "walls"
    },
    {
-    "item": "Slim direct-vent gas fireplace in the new chase (unit, gas extension, vent, stone surround)",
-    "low": 10000,
-    "high": 19000,
+    "item": "Slim direct-vent gas fireplace in the new chase (unit, gas extension, vent, plaster finish, hearth)",
+    "low": 9000,
+    "high": 17000,
     "cat": "pro"
    },
    {
-    "item": "Island prep sink plumbing and floor electrical",
-    "low": 5000,
-    "high": 10000,
-    "cat": "pro"
+    "item": "Island floor electrical",
+    "low": 1500,
+    "high": 3000,
+    "cat": "elec"
    },
    {
     "item": "Oak media wall around the TV in the nook",
@@ -1172,8 +1172,8 @@ const COSTS = {
    },
    {
     "item": "Contingency (15%)",
-    "low": 17700.0,
-    "high": 34000.0,
+    "low": 17000.0,
+    "high": 32700.0,
     "cat": "cont"
    }
   ],
